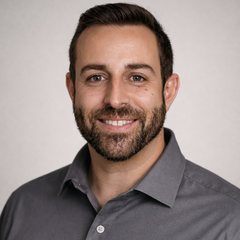
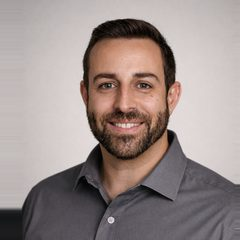
Give David Galdeano's portrait the headroom the others have
His hair sat against the top edge of the frame where everyone else has
clear space above them. His first crop used the full width of his
photograph, which fixed how much frame there was to place him in.

The original turned up in the history - it was uploaded alongside the
others and removed from the repository later, the same way Lazaro's was.
Re-cropping from it rather than from the 240px version means the extra
headroom is photograph, not invention.

Matching the others still needs 126px more width than the photograph
holds. Each row extends its own edge pixel outward, so backdrop stays
backdrop and shirt stays shirt, instead of one column being smeared down
the entire side - which is what made the first attempt show a dark band.
None of it is visible regardless: these render as circles, and the
padding sits in the corners the circle clips. At mid-height, where the
circle does reach the edge, what is being extended is plain backdrop.

His head now reads the same size as Chris Alvarez's, which is what was
asked for.

Claude-Session: https://claude.ai/code/session_01LNzqmWucpX31sTGxfWn1uD

diff --git a/README.md b/README.md
@@ -123,6 +123,14 @@ Eight pages are built. Still open:
   have read larger than everyone else's, any wider and the backdrop would have
   had to be invented. His backdrop is a dark studio grey where the others are
   bright blurred interiors; that is the photograph, not the crop
+- **David Galdeano's crop** — his first one used the full width of his
+  photograph and left his hair against the top edge. Re-cropped wider so he
+  carries the same headroom as the others, which needed 126px more width
+  than the photograph holds: each row extends its own edge pixel outward, so
+  backdrop stays backdrop and fabric stays fabric rather than one column
+  being smeared down the whole side. It is invisible in any case — the
+  photographs render as circles, which clip the corners where the padding
+  is, and at mid-height the edge being extended is plain backdrop
 - **Lazaro Villar's biography** — written from his personal resume, because his
   BDI one does not exist yet. It deliberately names no former employer and no
   past project: the client asked for the company names out, and once they are
